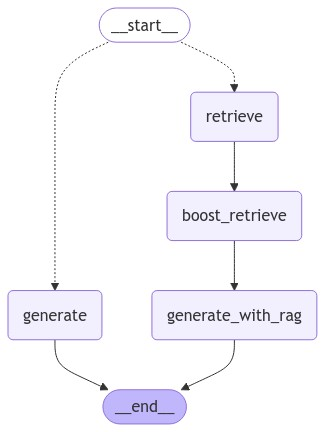
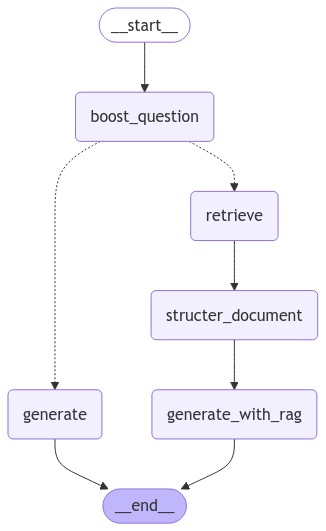
live

diff --git a/app_graph.py b/app_graph.py
@@ -21,18 +21,22 @@ class PdfChat:
         self.model = ChatOpenAI(api_key=api_key, model="gpt-4o-mini-2024-07-18", temperature=0)  # minimum costing model
         builder = StateGraph(GraphState)
         builder.add_node("retrieve", self.retrieve_node)
-        builder.add_node("boost_retrieve", self.boost_retrieve)
+        builder.add_node("boost_question", self.boost_question)
+        builder.add_node("structer_document", self.structer_document)
         builder.add_node("generate_with_rag", self.generate_with_doc)
         builder.add_node("generate", self.generate_wo_doc)
-        builder.set_conditional_entry_point(
+
+        builder.set_entry_point("boost_question")
+        builder.add_conditional_edges(
+            "boost_question",
             self.decide_retrieve,
             {
                 "retrieve": "retrieve",
                 "generate": "generate"
             }
         )
-        builder.add_edge("retrieve", "boost_retrieve")
-        builder.add_edge("retrieve", "generate_with_rag")
+        builder.add_edge("retrieve", "structer_document")
+        builder.add_edge("structer_document", "generate_with_rag")
         builder.add_edge("generate_with_rag", END)
         builder.add_edge("generate", END)
 
@@ -40,6 +44,7 @@ class PdfChat:
 
         self.graph = builder.compile()
 
+        self.graph.get_graph().draw_mermaid_png(output_file_path="graph.png")
         self.memory = ConversationBufferMemory()
 
     def decide_retrieve(self, state: GraphState):
@@ -51,9 +56,9 @@ class PdfChat:
         else:
             return "generate"
 
-    def boost_retrieve(self, state: GraphState):
+    def boost_question(self, state: GraphState):
         question = state["question"]
-
+        memory = self.memory.load_memory_variables({})
         prompt = """You are an assistant in a question-answering tasks.
                     You have to boost the question to help search in vectorstore.
                     Don't make up random names.
@@ -67,9 +72,10 @@ class PdfChat:
         prompt = PromptTemplate.from_template(prompt)
         chain = prompt | self.model | StrOutputParser()
 
-        question = chain.invoke({"question": question, "memory": self.memory.load_memory_variables({})})
-
+        question = chain.invoke({"question": question, "memory": memory})
+        print("Boosted question:", question)
         return {"question": question}
+
 
     def retrieve_node(self, state: GraphState):
         question = state["question"]
@@ -80,6 +86,29 @@ class PdfChat:
 
         return {"documents": documents}
 
+    def structer_document(self, state: GraphState):
+        documents = state["documents"]
+        question = state["question"]
+        documents = [doc.page_content for doc in documents]
+
+        prompt = """You are an expert assistant for question-answering tasks. 
+                    You have to restructure the documents for the question. 
+                    Keep it short, only knowledge that is relevant to the question.
+                    Don't make up random names.
+                    Return a better structured document for better understanding.
+                    \n
+                    Documents: {documents}
+                    \n
+                    Question: {question}
+                """
+        prompt = PromptTemplate.from_template(prompt)
+        chain = prompt | self.model | StrOutputParser()
+
+        document = chain.invoke({"question": question, "documents": documents})
+
+        print(document)
+        return  {"documents": document}
+
     def generate_with_doc(self, state: GraphState):
         documents = state["documents"]
         question = state["question"]
@@ -87,12 +116,9 @@ class PdfChat:
 
         prompt = """"You are an expert assistant for question-answering tasks. 
                     Use the provided documents as context to extract and answer the question. 
-                    Read the context carefully, processing each document individually. 
-                    Pay close attention to the source of the information—ensure that your answer is specific to the correct document, and do not mix details between documents. 
-                    Focus on structured data like phone numbers, addresses, email addresses, or URLs, and extract them exactly as provided. 
-                    If such information is hidden within the context, identify and use it. 
-                    If the answer is not present, respond with 'I don't know.' 
-                    Keep your answer concise and limited to three sentences.
+
+                    If the answer is not mentioned in context, respond with 'I don't know.' 
+                    Keep your limited to three sentences.
                     Answer in the language of the question.
 
                     Conversation history: {memory}

diff --git a/router.py b/router.py
@@ -20,6 +20,7 @@ def route(llm, memory):
      Firstly take a deep breath and read the message carefully.
      If it is not english, convert it to english first, so u can better understand.
      If user asking about someone, firstly check the vectorstore.
+     The question might look like a general question, but it may be about a specific document in the vectorstore.
      Don't mistake between the vectorstore and memory, question may be about a document in the vectorstore.
      If the message requires more detailed or additional information that may be found in the stored documents within the vector database, return vectorstore.
      If the message references previous parts of the conversation or context that has already been discussed, or just daily talk, return memory.

diff --git a/ingestion.py b/ingestion.py
@@ -12,7 +12,7 @@ class PDFIngestor:
         self.docs_list = self.get_docs()
 
         self.text_splitter = RecursiveCharacterTextSplitter.from_tiktoken_encoder(
-            chunk_size=500, chunk_overlap=0
+            chunk_size=200, chunk_overlap=0
         )
         self.doc_splits = self.text_splitter.split_documents(self.docs_list)
 
@@ -35,4 +35,4 @@ class PDFIngestor:
         return docs_list
 
     def get_retriever(self):
-        return self.vectorstore.as_retriever(search_type="similarity",search_kwargs={"k": 3})
+        return self.vectorstore.as_retriever(search_type="mmr",search_kwargs={"k": 3})
